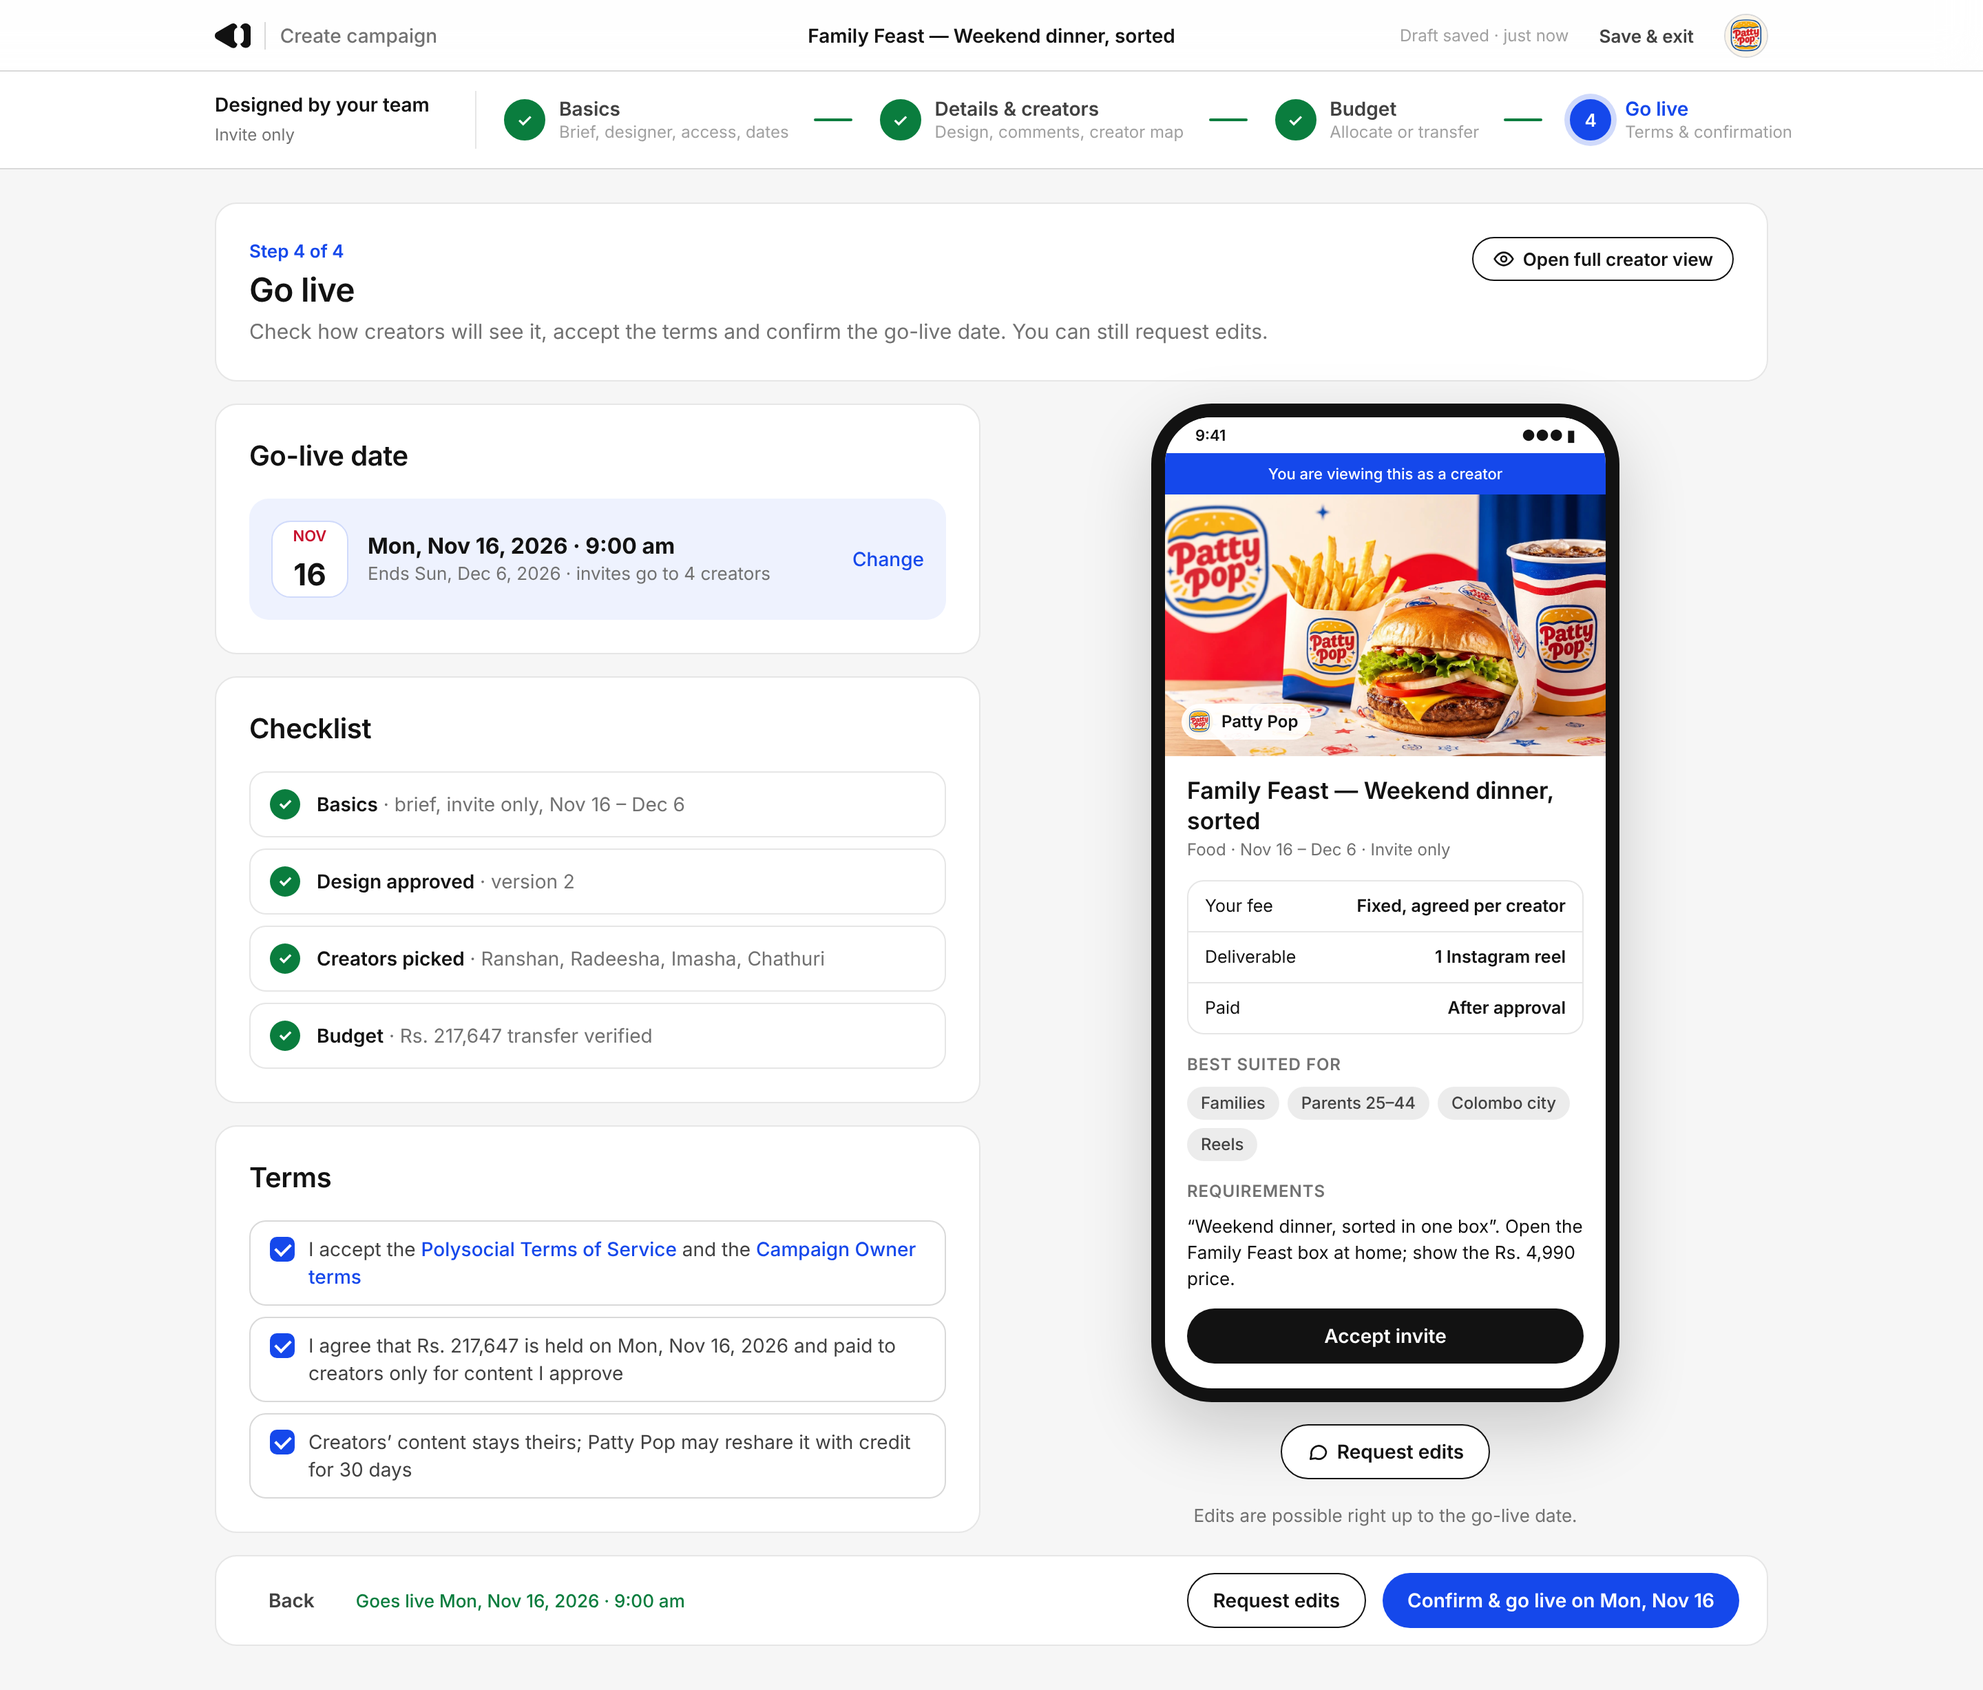
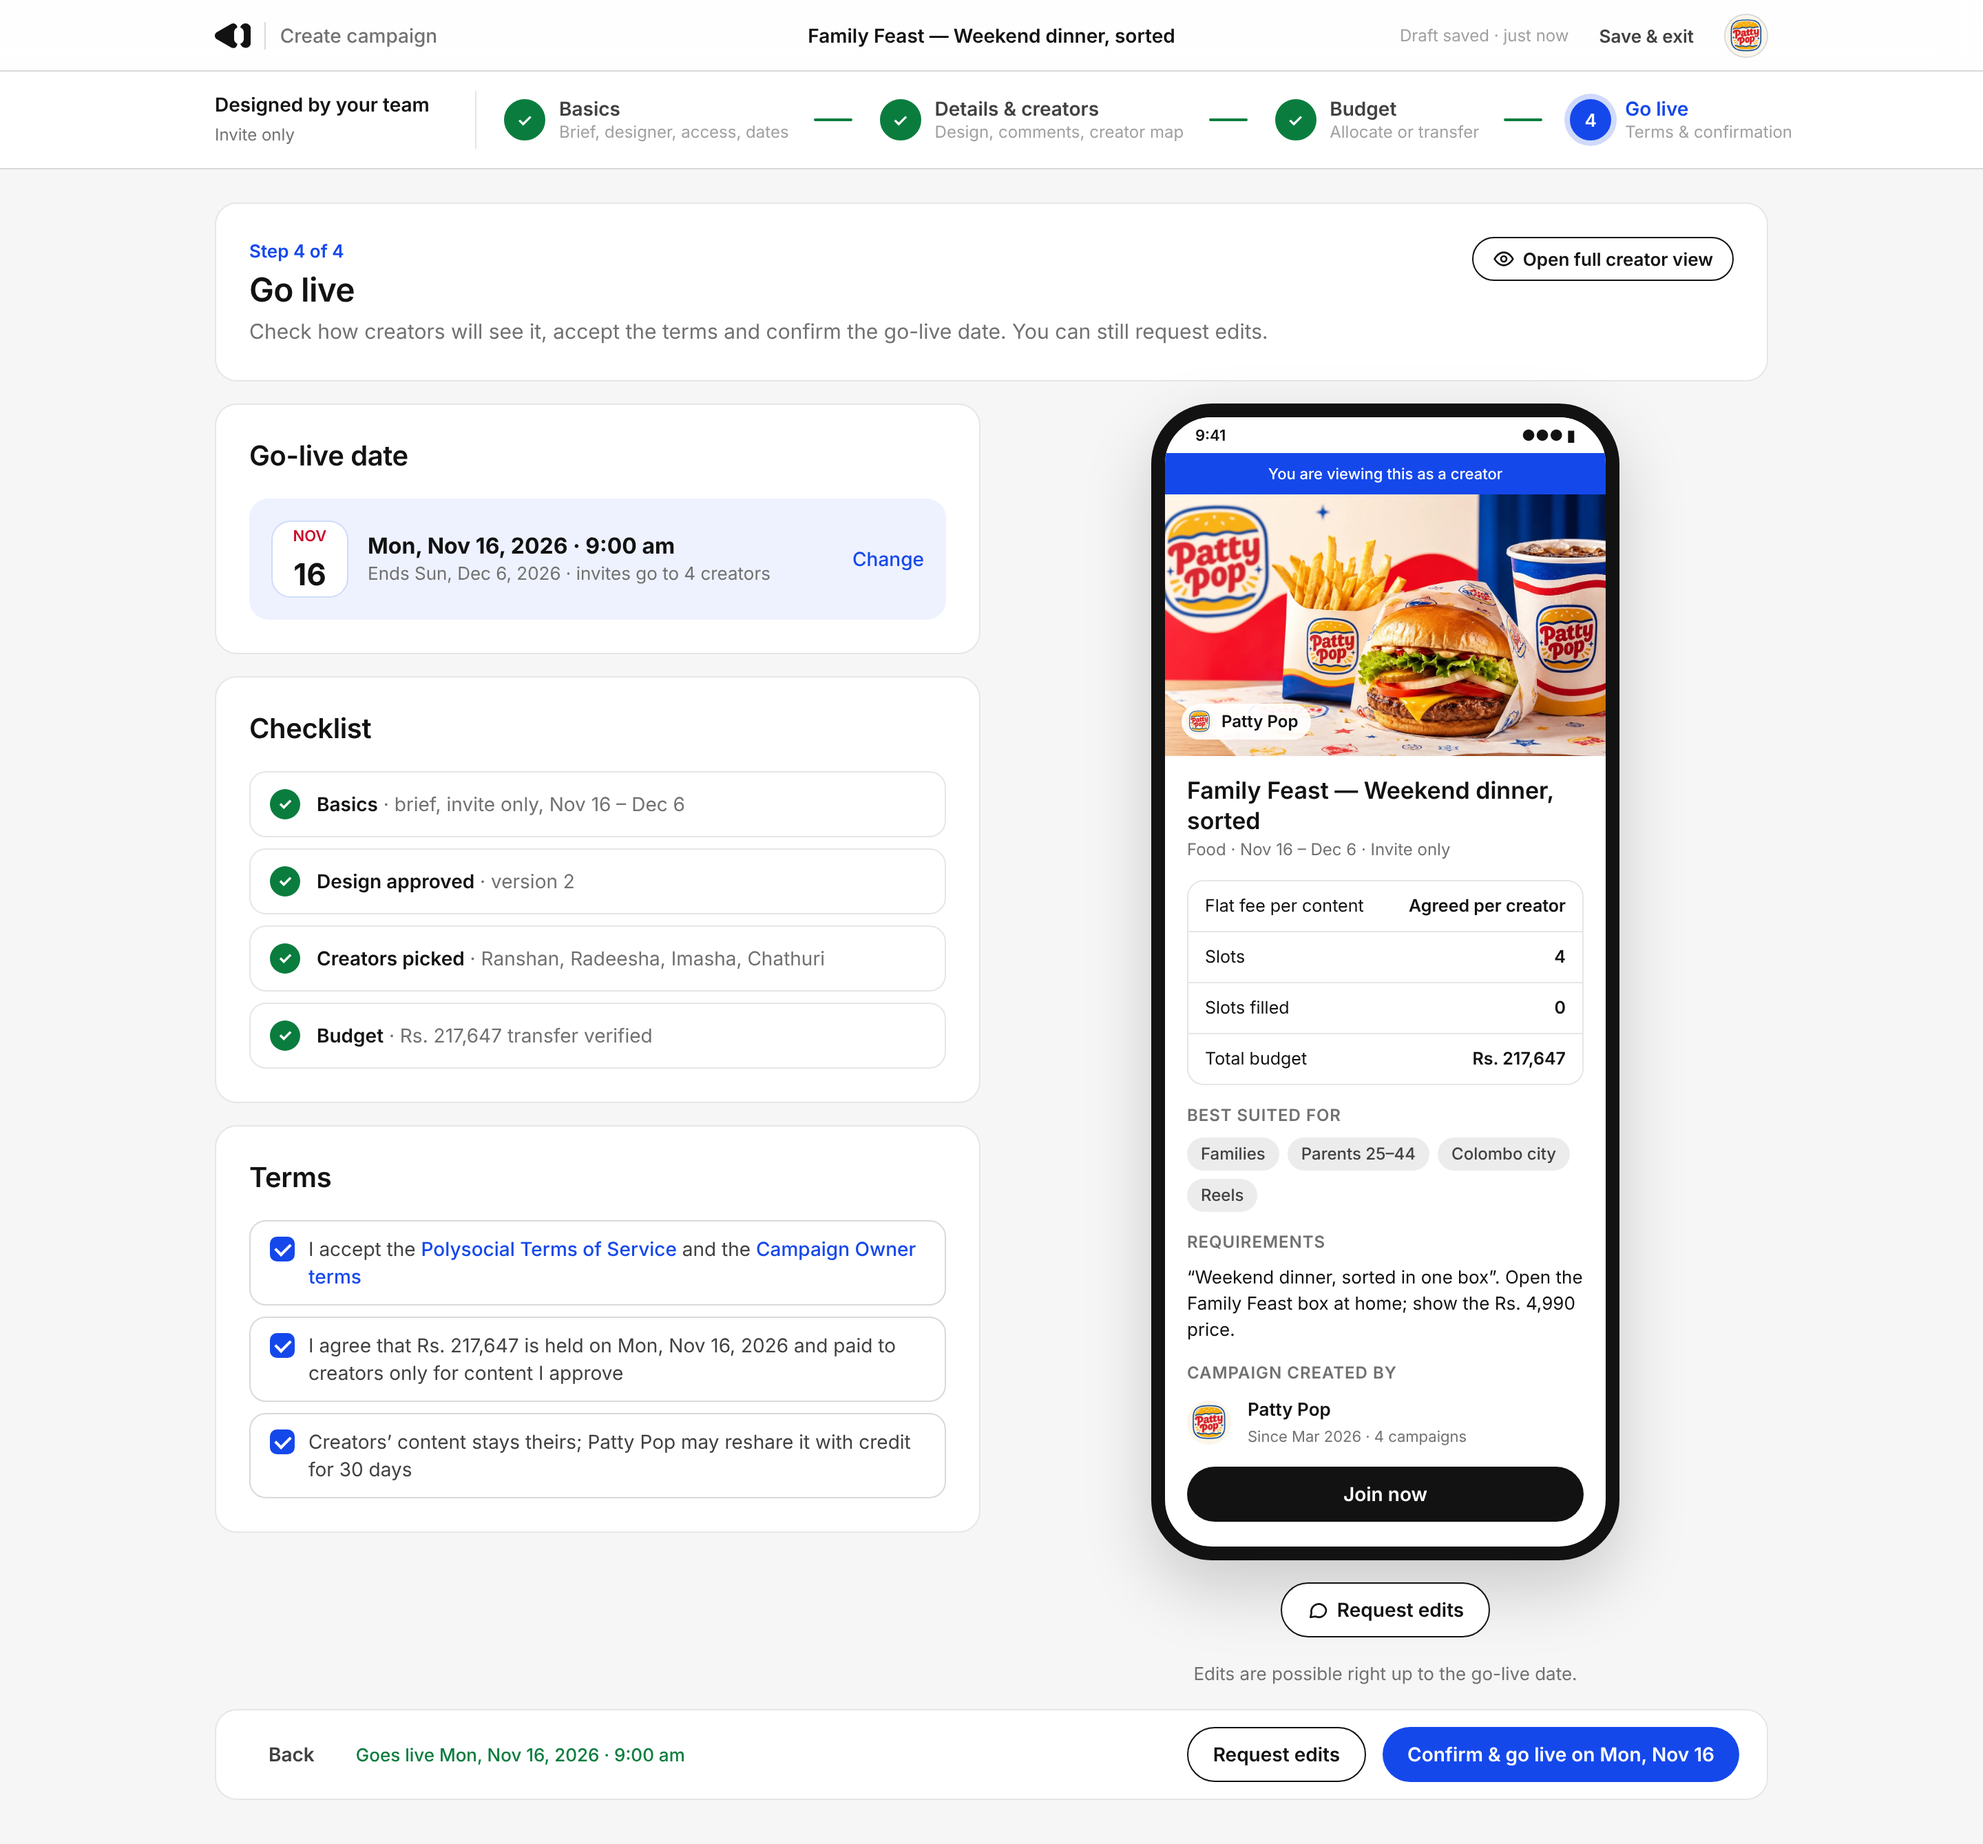
Match the creator view to the creator web app's campaign page
Use its pricing list labels (and the flat-fee labels for the invite-only
campaign), add Campaign created by, and label the button Join now. Note
which version of each referenced repo the screens follow.

Claude-Session: https://claude.ai/code/session_01TWFpSRdd2thovgoyFXphbs

diff --git a/campaign-screens/screens.js b/campaign-screens/screens.js
@@ -292,7 +292,8 @@ function creatorView(k, o) {
       <div class="pl">${o.price.map(([a, b]) => `<div><span>${a}</span><b>${b}</b></div>`).join('')}</div>
       <div><h5>Best suited for</h5>${tagsHTML(o.tags)}</div>
       <div><h5>Requirements</h5><p>${o.req}</p></div>
-      <span class="join">${o.cta}</span></div></div>`;
+      <div><h5>Campaign created by</h5><div class="prow"><img class="pav" src="img/pattypop.png" style="width:32px;height:32px"><div><b style="font-size:13px">Patty Pop</b><span style="font-size:11px">Since Mar 2026 · 4 campaigns</span></div></div></div>
+      <span class="join">Join now</span></div></div>`;
 }
 function step4(k, o) {
   const t = T[k], [dw, mo, d, full] = t.live;
@@ -311,9 +312,9 @@ function step4(k, o) {
     bar(`Goes live ${full}`, ['Request edits', 'Confirm &amp; go live on ' + `${dw}, ${mo.charAt(0) + mo.slice(1).toLowerCase()} ${d}`], true));
 }
 const CV = {
-  a: {meta: 'Food · Oct 19 – Nov 8 · Open', price: [['Base price per content', 'Rs. 6,000'], ['Performance pricing', 'Rs. 1,800 / 1K views'], ['Max earning per content', 'Rs. 90,000']], tags: ['18–28 age', 'Colombo', 'Galle', 'Selfie', 'Reels'], req: '“POV: you found the crunchiest burger in Colombo”. Starving moment → order at Patty Pop → slow-mo crunchy first bite.', cta: 'Join campaign'},
-  b: {meta: 'Food · Nov 20 – Dec 14 · Run by Ishara Fernando', price: [['Micro creators', 'Rs. 9,000 per reel'], ['Bonus pool', 'Rs. 1,500 / 1K views'], ['Opening day', 'Sat, Dec 5']], tags: ['Families', 'Students', 'Kandy', 'Peradeniya', 'Reels'], req: '“I drove up to Kandy for one bite…”. Queue on opening day, first bite and free fries with code KANDYPOP.', cta: 'Join campaign'},
-  c: {meta: 'Food · Nov 16 – Dec 6 · Invite only', price: [['Your fee', 'Fixed, agreed per creator'], ['Deliverable', '1 Instagram reel'], ['Paid', 'After approval']], tags: ['Families', 'Parents 25–44', 'Colombo city', 'Reels'], req: '“Weekend dinner, sorted in one box”. Open the Family Feast box at home; show the Rs. 4,990 price.', cta: 'Accept invite'},
+  a: {meta: 'Food · Oct 19 – Nov 8 · Open', price: [['Base price per content', 'Rs. 6,000'], ['Max earning per content', 'Rs. 90,000'], ['Performance pricing', 'Rs. 1,800 / 1K views'], ['Total budget', 'Rs. 600,000']], tags: ['18–28 age', 'Colombo', 'Galle', 'Selfie', 'Reels'], req: '“POV: you found the crunchiest burger in Colombo”. Starving moment → order at Patty Pop → slow-mo crunchy first bite.'},
+  b: {meta: 'Food · Nov 20 – Dec 14 · Open', price: [['Base price per content', 'Rs. 9,000'], ['Max earning per content', 'Rs. 120,000'], ['Performance pricing', 'Rs. 1,500 / 1K views'], ['Total budget', 'Rs. 704,000']], tags: ['Families', 'Students', 'Kandy', 'Peradeniya', 'Reels'], req: '“I drove up to Kandy for one bite…”. Queue on opening day, first bite and free fries with code KANDYPOP.'},
+  c: {meta: 'Food · Nov 16 – Dec 6 · Invite only', price: [['Flat fee per content', 'Agreed per creator'], ['Slots', '4'], ['Slots filled', '0'], ['Total budget', 'Rs. 217,647']], tags: ['Families', 'Parents 25–44', 'Colombo city', 'Reels'], req: '“Weekend dinner, sorted in one box”. Open the Family Feast box at home; show the Rs. 4,990 price.'},
 };
 SCREENS['a4-golive'] = () => step4('a', {who: 'open to all matching creators', hold: 600000, cv: CV.a,
   gates: [['Basics', 'brief, open, Oct 19 – Nov 8'], ['Design approved', 'version 3, after your 2 comments'], ['Creators approved', '7 suggested + open to ~1,480'], ['Budget allocated', `${rs(600000)} from your brand budget`]]});

diff --git a/campaign-screens/README.md b/campaign-screens/README.md
@@ -42,3 +42,13 @@ python3 campaign-screens/overview.py   # png/overview-<type>.png
 ```
 
 `creators/` is the creator pool and avatars from MCP-view's creator map; `img/` is Patty Pop's logo and photos.
+
+## Sources (checked Oct 31, 2026)
+
+| Repo | Version used | Deployed |
+| --- | --- | --- |
+| brand-web-app | `main` @ `9f2e4e5` (bank details on Account) | GitHub Pages builds `main`: last deploy `9f2e4e5` |
+| MCP-view | `main` @ `e24816b` (creator map as chat UI) | GitHub Pages builds `main`: last deploy `e24816b` |
+| Polysocial-mobile | `release-1.0.0(11)` = `main` @ `2412b77` | Netlify deploys `release-*` branches; creator data identical to `site/creator-map/celeste/data.js` |
+| collaborators-web-app | `main` @ Oct 14 (invites, chats, commission ask) | Pages branch not visible from this session |
+| creator-web-app | `main` @ Oct 10 (campaign page: pricing list, best suited for, requirements, created by, *Join now*) | Pages branch not visible from this session |
